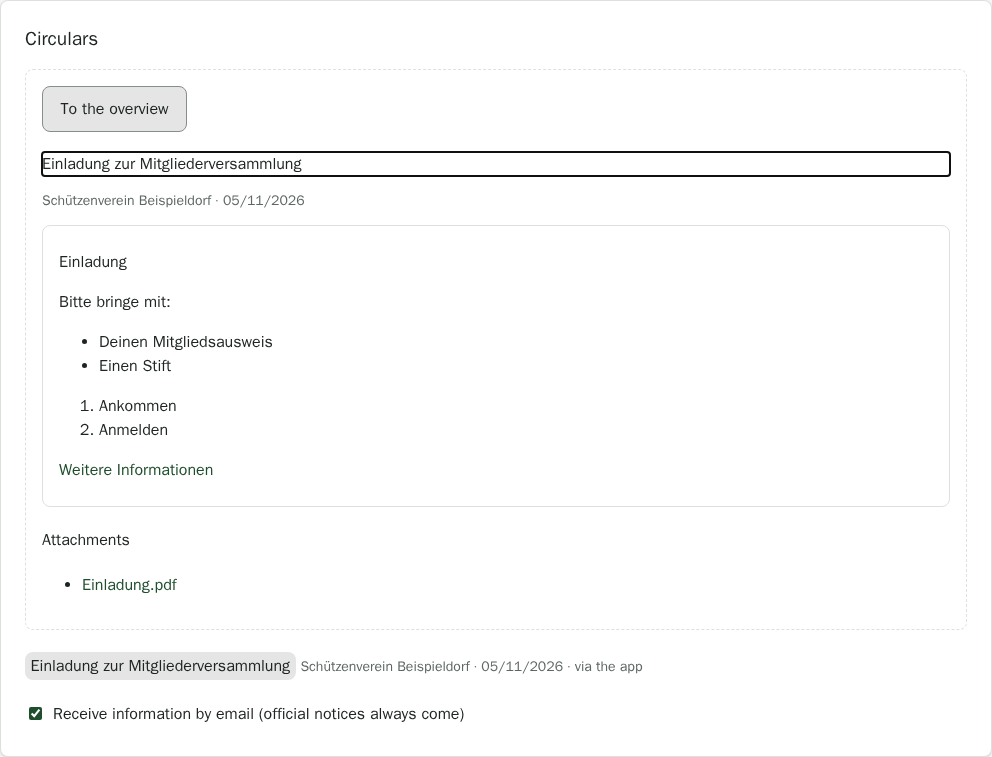
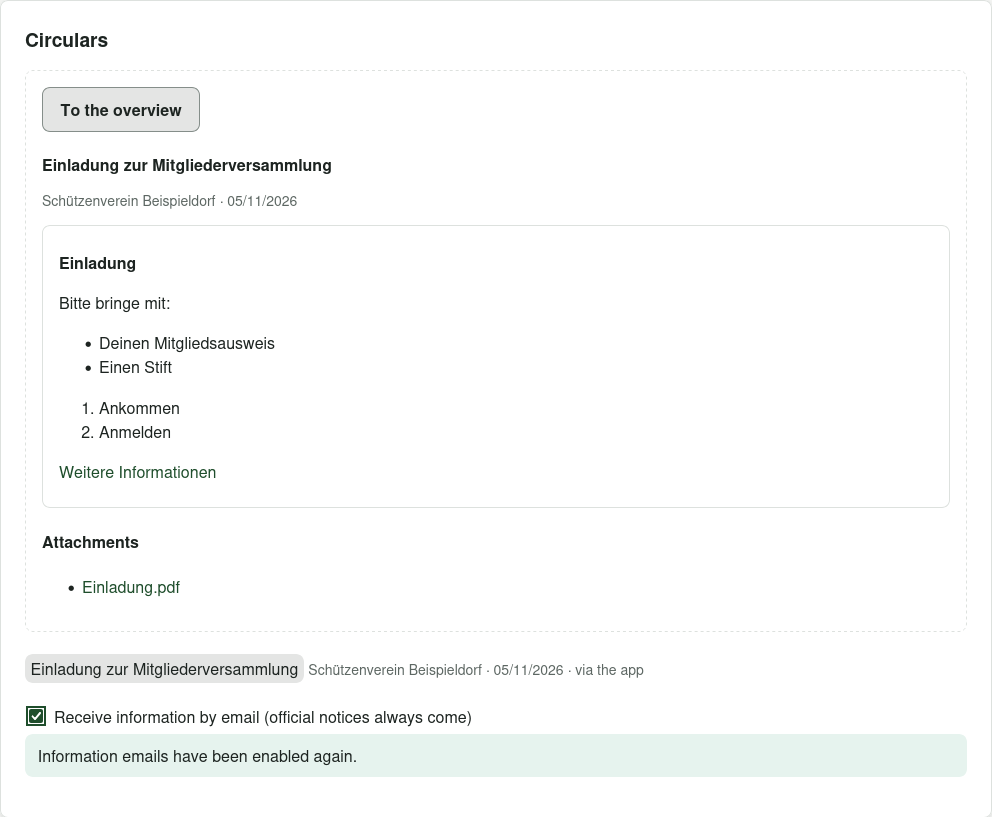
Tastaturfokus beim Speichern der E-Mail-Einstellung erhalten (#192)
* Tastaturfokus beim Speichern der E-Mail-Einstellung erhalten

* Hilfebilder mit bestätigter Einstellung in beiden Sprachen erneuern

* Kontrollierte Checkbox ohne zusätzlichen Klickabbruch sperren

---------

diff --git a/frontend/src/test/PortalCirculars.test.tsx b/frontend/src/test/PortalCirculars.test.tsx
@@ -152,6 +152,34 @@ describe('Genaues Rundschreiben aus der App', () => {
       expect(calls.filter((c) => /circulars\/\d+\/$/.test(c.key))).toHaveLength(0)
     },
   )
+  it('erhält beim Speichern den Fokus und verhindert weitere Änderungen bis zur Bestätigung', async () => {
+    fakeApi(routes())
+    let finish!: (value: { info_opt_out: boolean }) => void
+    const save = vi.spyOn(portalCircularApi, 'setOptOut').mockImplementation(
+      () =>
+        new Promise((resolve) => {
+          finish = resolve
+        }),
+    )
+    view('/')
+    const checkbox = await screen.findByRole('checkbox')
+    await userEvent.click(checkbox)
+    expect(checkbox).toHaveFocus()
+    expect(checkbox).not.toBeDisabled()
+    expect(checkbox).toHaveAttribute('aria-busy', 'true')
+    expect(checkbox).toHaveAttribute('aria-disabled', 'true')
+    await userEvent.keyboard(' ')
+    await userEvent.click(checkbox)
+    expect(save).toHaveBeenCalledTimes(1)
+    expect(checkbox).toBeChecked()
+    await act(async () => finish({ info_opt_out: true }))
+    expect(screen.getByRole('status')).toHaveTextContent(
+      'Informationen per E-Mail sind abbestellt.',
+    )
+    expect(checkbox).toHaveFocus()
+    expect(checkbox).not.toBeChecked()
+    expect(checkbox).not.toHaveAttribute('aria-busy')
+  })
   it('bestätigt nur erfolgreiche Änderungen, räumt alte Erfolge weg und erhält die Serverauswahl', async () => {
     setCatalogForTest('en', en)
     let fail = false

diff --git a/frontend/src/components/ui.tsx b/frontend/src/components/ui.tsx
@@ -104,12 +104,15 @@ export function Checkbox({
   checked,
   onChange,
   disabled,
+  busy,
   hint,
 }: {
   label: string
   checked: boolean
   onChange: (value: boolean) => void
   disabled?: boolean
+  /** Sperrt weitere Änderungen beim Speichern, erhält aber den Tastaturfokus. */
+  busy?: boolean
   /** kurze Erklärung hinter der Beschriftung */
   hint?: string
 }) {
@@ -119,7 +122,11 @@ export function Checkbox({
         type="checkbox"
         checked={checked}
         disabled={disabled}
-        onChange={(e: ChangeEvent<HTMLInputElement>) => onChange(e.target.checked)}
+        aria-disabled={busy || undefined}
+        aria-busy={busy || undefined}
+        onChange={(e: ChangeEvent<HTMLInputElement>) => {
+          if (!busy) onChange(e.target.checked)
+        }}
       />
       <span>
         {label}

diff --git a/frontend/src/pages/portal/PortalCirculars.tsx b/frontend/src/pages/portal/PortalCirculars.tsx
@@ -141,7 +141,7 @@ export function PortalCirculars({ accessId }: { accessId: number }) {
         <Checkbox
           label={t('Informationen per E-Mail erhalten (offizielle Mitteilungen kommen immer)')}
           checked={!settings.data.info_opt_out}
-          disabled={busy}
+          busy={busy}
           onChange={(on) => void setOptOut(!on)}
         />
       )}

diff --git a/frontend/src/index.css b/frontend/src/index.css
@@ -941,6 +941,11 @@ fieldset {
   margin-top: 0.3rem;
 }
 
+.checkbox:has(input[aria-busy='true']),
+.checkbox input[aria-busy='true'] {
+  cursor: progress;
+}
+
 /* Kästchen in einem Formularfeld nicht wie ein Textfeld auf volle Breite ziehen */
 .field .checkbox input {
   width: auto;

diff --git a/frontend/src/help/de/seiten/rundschreiben.md b/frontend/src/help/de/seiten/rundschreiben.md
@@ -13,4 +13,4 @@ Rundschreiben gehen per E-Mail, als Brief oder in die App an Mitglieder, Vorstä
 
 Namenslisten verwenden eine feste alphabetische Reihenfolge: Umlaute stehen bei ihrem Grundbuchstaben. Gleiche Namen bleiben auch beim Blättern in derselben Reihenfolge.
 
-Empfangene Schreiben und ihre Anhänge findest du auch im Mitgliederbereich unter **Rundschreiben**. Die Android-App nennt diesen gemeinsamen Eingang „Mitteilungen“. Die Einstellung für Informations-E-Mails bestätigt Änderungen; offizielle Mitteilungen bleiben davon unberührt.
+Empfangene Schreiben und ihre Anhänge findest du auch im Mitgliederbereich unter **Rundschreiben**. Die Android-App nennt diesen gemeinsamen Eingang „Mitteilungen“. Die Einstellung für Informations-E-Mails bestätigt Änderungen und behält beim Speichern den Tastaturfokus. Weitere Änderungen sind währenddessen gesperrt; offizielle Mitteilungen bleiben davon unberührt.

diff --git a/frontend/src/help/en/seiten/rundschreiben.md b/frontend/src/help/en/seiten/rundschreiben.md
@@ -13,4 +13,4 @@ A mailing list turns a mail sent to a club address into a circular. Anyone may w
 
 Name lists use a fixed alphabetical order: accented letters are placed with their base letter. Identical names keep their relative order when paging through the list.
 
-Received circulars and their attachments are also available in the member area under **Circulars**. The Android app calls this shared inbox “Messages”. Changes to information emails are confirmed; official notices are unaffected.
+Received circulars and their attachments are also available in the member area under **Circulars**. The Android app calls this shared inbox “Messages”. Changes to information emails are confirmed and keyboard focus is kept while saving. Further changes are blocked during the request; official notices are unaffected.

diff --git a/docs/ui-rueckmeldungen.md b/docs/ui-rueckmeldungen.md
@@ -23,6 +23,11 @@ Test jeder möglichen Kombination aus Rolle, Aktion und Unterbrechung. Eine rein
 Auswahl, Downloadöffnung oder automatische Hintergrundabfrage braucht keine zusätzliche
 Erfolgsmeldung. Meldungen und fokussierte Abschlussansichten dürfen nicht doppelt angesagt werden.
 
+Die Checkbox für Informations-E-Mails bleibt beim Speichern fokussierbar. Sie kennzeichnet den
+laufenden Vorgang und sperrt weitere Änderungen, ohne das native `disabled` kurz einzuschalten;
+dies würde den Browserfokus entfernen. Ein bloßes `aria-disabled` reicht nicht: Maus- und
+Tastaturaktionen werden während des laufenden Vorgangs auch tatsächlich abgefangen.
+
 ## Technische Prüfungen
 
 Alle Tests werden über `scripts/test.sh` ausgeführt. Webregressionen prüfen erfolgreiche und
